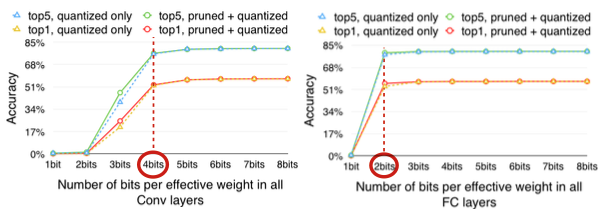
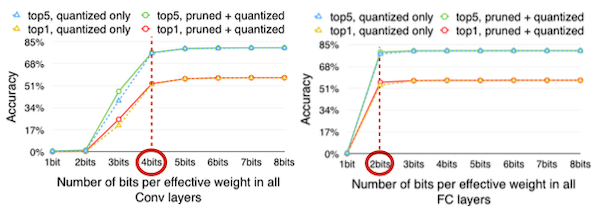
lec05 commit 4

diff --git a/lec05/README.md b/lec05/README.md
@@ -166,7 +166,7 @@ continuous 혹은 large set of values 특성을 가진 연속적인 입력을 di
 
 - silicon area
 
-neural network에 quantization을 적용하기 전/후의 weight 분포 차이를 살펴보자.
+neural network에 quantization을 적용하기 전/후의 weight 분포 차이를 살펴보자. continuous space가 discrete space로 매핑된다.
 
 ![continuous weight](images/continuous-weight.png)
 
@@ -190,9 +190,9 @@ W = \begin{bmatrix} 0.97 & 0.64 & 0.74 & 1.00 \\ 0.58 & 0.84 & 0.84 & 0.81 \\ 0.
 
 $$ A_{i} = \sum_{j}{C_{i,j}} + b_i $$
 
-1. $C_{i,j}$ 자리에 먼저 행렬 $W$ 값이 load된다.
-
 $$ A_{i} = W_i \cdot \mathrm{x_1} + W_i \cdot \mathrm{x_2} + W_i \cdot \mathrm{x_3} + W_i \cdot \mathrm{x_4} $$
+
+1. $C_{i,j}$ 자리에 먼저 행렬 $W$ 값을 load한다.
 
 2. 한 사이클마다 행렬 $X$ 에서 다음 input value를 가져온다.
 
@@ -200,39 +200,37 @@ $$ A_{i} = W_i \cdot \mathrm{x_1} + W_i \cdot \mathrm{x_2} + W_i \cdot \mathrm{x
 \begin{bmatrix} 0.41 \\ 0.00 \\ 0.42 \\ 0.39 \end{bmatrix}
 ```
 
-3. 연산이 끝나면 행렬 $X$ 의 다음 열을 가져와서 순차적으로 계산한다.
+3. 연산 후 행렬 $X$ 의 다음 열을 가져와서 순차적으로 계산한다.
 
 그런데 이 과정에 **weight, bias quantization**을 추가하면 어떻게 될까?
 
-- 우선 floating-point tensor를 **scaling factor** $s_{X}$ 가 곱해진 형태의 integer tensor 로 변환한다.
+1. floating-point tensor 대신 **scaling factor** $s_{X}$ 가 곱해진 형태의 integer tensor 를 사용한다.
 
 ```math
 X_{fp32} \approx s_{X}X_{int} = \hat{X}
 ```
 
+```math
+\hat{X} = {{1} \over {255}} \begin{bmatrix} 105 & 64 & 186 & 168 \\ 0 & 105 & 105 & 145 \\ 107 & 61 & 181 & 255 \\ 99 & 209 & 43 & 89 \end{bmatrix}
+```
+
 - $\hat{X}$ : scaled quantized tensor
+
+- **최소값 0→0**, **최대값 1.00→255**, `uint8` 타입으로 매핑되었다.
+
+2. weight tensor도 scaling factor $s_{W}$ 를 곱한 integer tensor를 사용한다.
 
 ```math
 W = \begin{bmatrix} 0.97 & 0.64 & 0.74 & 1.00 \\ 0.58 & 0.84 & 0.84 & 0.81 \\ 0.00 & 0.18 & 0.90 & 0.28 \\ 0.57 & 0.96 & 0.80 & 0.81 \end{bmatrix} \approx {{1} \over {255}}\begin{bmatrix} 247 & 163 & 189 & 255 \\ 148 & 214 & 214 & 207 \\ 0 & 46 & 229 & 71 \\ 145 & 245 & 204 & 207 \end{bmatrix} = s_{W}W_{uint8}
 ```
 
-- **최소값 0→0**, **최대값 1.00→255**, `uint8` 타입으로 매핑되었다.
-
-나머지 행렬도 변환하면 다음과 같다.
-
-```math
-\hat{X} = {{1} \over {255}} \begin{bmatrix} 105 & 64 & 186 & 168 \\ 0 & 105 & 105 & 145 \\ 107 & 61 & 181 & 255 \\ 99 & 209 & 43 & 89 \end{bmatrix}
-```
-
-- **최소값 0→0**, **최대값 1.00→255**, `uint8` 타입으로 매핑되었다.
+3. bias tensor는 `int32` 타입으로 매핑된다.
 
 ```math
 \hat{b} = {{1} \over {255^2}}\begin{bmatrix} 650 \\ 1300 \\ 1951 \\ 650 \end{bmatrix} 
 ```
 
-- `int32` 타입으로 매핑되었다.
-
-  **overflow**를 피하기 위해서는 이처럼 <U>더 큰 bit width를 사용</U>해야 한다.
+-  **overflow**를 피하기 위해서는 이처럼 <U>더 큰 bit width를 사용</U>해야 한다.
 
 - $\hat{W}, \hat{X}$ 가 가지고 있는 ${{1} \over {255}}$ 가 서로 곱해지면 ${{1} \over {255^2}}$ 가 되므로, quantized bias $\hat{b}$ 는 scaling factor로 ${{1} \over {255^2}}$ 를 사용한다.
 
@@ -250,7 +248,7 @@ W = \begin{bmatrix} 0.97 & 0.64 & 0.74 & 1.00 \\ 0.58 & 0.84 & 0.84 & 0.81 \\ 0.
 
 ---
 
-## 5.2.2 Symmetric vs Asymmetric Quantization
+### 5.2.2 Symmetric vs Asymmetric Quantization
 
 ![symmetric, asymmetric, unsigned quantization](images/symmetric_asymmetric_signed.png)
 
@@ -272,15 +270,41 @@ W = \begin{bmatrix} 0.97 & 0.64 & 0.74 & 1.00 \\ 0.58 & 0.84 & 0.84 & 0.81 \\ 0.
 
 ---
 
+### 5.2.3 Uniform vs Non-uniform Quantization
+
+quantization의 step size를 uniform(균일)하게 정하거나, non-uniform하게 정하는가에 따라서도 표현력이 달라진다.
+
+![uniform vs non uniform](images/uniform_vs_non_uniform.png)
+
+- **uniform quantization**: (a)
+
+    - 표현력은 non-uniform보다 떨어지지만 구현이 더 쉽다.
+
+- **non-uniform quantization**: (b)
+
+    - 분포에 따라 step size가 결정된다. 
+    
+    - 예시) **logarithmic quantization**: (c) 
+    
+      same storage에서 더 넓은 범위의 값의 표현이 가능하다.
+
+$$ Q(x) = Sign(x)2^{round(\log_{2}|x|)} $$
+
+---
+
 ## 5.3 Efficient Weights Quantization
 
-그렇다면 quantization bits는 어느 정도가 효율적일까? 아래는 CNN에서 다양한 precision으로 quantization했을 때 정확도를 나타낸 도표다.
+그렇다면 quantization bits는 어느 정도가 효율적일까? CNN의 main operation에 해당되는 convolution(MAC), Fully-Connected(FC) layer를 quantization했을 때 정확도를 나타낸 도표를 살펴보자.
 
 ![quantization bits](images/quantization_bits.png)
 
 - Conv layer: 4bits 이상
 
 - FC layer: 2bits 이상
+
+참고로 대표적인 CNN 모델에서 Conv, FC layer이 갖는 비중은 다음과 같다.
+
+![CNN models Conv, FC layers](images/conv_fc_cnn.png)
 
 ---
 
@@ -356,7 +380,11 @@ ImageNet dataset으로 훈련한 AlexNet에서 pruning+quantization, pruning, qu
 
 ### 5.4.1 K-Means-based Quantization
 
+> [Deep Compression: Compressing Deep Neural Networks with Pruning, Trained Quantization and Huffman Coding 논문(2015)](https://arxiv.org/abs/1510.00149)
+
 **K-Means-based weight quantization**이란 여러 <U>bucket을 갖는 codebook</U>(**centroids**, 무게중심)을 만들어서 quantization하는 방식이다.
+
+> clustering 기법 자체를 non-uniform quantization의 일종으로 볼 수 있다.(quantization level 수 = cluster 수)
 
 > 예를 들어 Computer Graphics에서는, 65536개의 스펙트럼으로 이루어진 원래 색상을 256개의 bucket을 갖는 codebook을 만들어서 quantization을 수행한다.
 
@@ -366,7 +394,7 @@ ImageNet dataset으로 훈련한 AlexNet에서 pruning+quantization, pruning, qu
 
 - 연산: Floating-Point Arithmetic
 
-> 예제에서 codebook의 cluster index는 0~3까지의 2bit로 표현된다.
+> 예제에서 codebook의 cluster index는 0~3까지 있으므로 2bit로 표현된다.
 
 ### <span style='background-color: #393E46; color: #F7F7F7'>&nbsp;&nbsp;&nbsp;📝 예제 2: K-Means-based Quantization의 메모리 사용량 &nbsp;&nbsp;&nbsp;</span>
 
@@ -414,11 +442,23 @@ K-Means-based Quantization 이전/이후 필요한 memory를 계산하라.
 
 ![Fine-tuning quantized weights(K-means)](images/K-means_fine_tune.png)
 
-그러나 K-Means-based weight quantization은, weight만 integer type으로 바꾼 뒤, 실제 추론 상황에서는 다시 floating-point로 바꾸어야 한다는 단점이 있다.
+---
 
-> runtime inference 중 weight는 lookup table에 따라서 decompressed된다.(예제: 2bit int to 32bit float)
+#### 5.4.1.2 K-Means-based Quantization Limitations
 
-따라서 <U>오직 storage cost만 줄일 수 있다</U>는 한계를 지닌다. 실제 computation 과정, memory access에서는 여전히 floating-point를 사용한다.
+그러나 K-Means-based weight quantization은 다음과 같은 단점을 갖는다.
+
+1. 실제 추론 상황에서는 다시 floating point를 사용한다.
+
+   다시 말해 runtime inference에서 weight는 lookup table을 바탕으로 decompressed된다.(예시에서는 2bit integer가 다시 32bit floating point로 decompressed됐다.)
+
+    - 따라서 <U>오직 storage cost만 줄일 수 있다</U>는 한계를 지닌다.
+
+2. codebook을 reconstruction하기 위한 time complexity, computation이 크다.
+
+3. cluster에 있는 weight가 memory상에서 연속적이지 않기 떄문에, memory access에서 긴 지연이 발생하게 된다.
+
+4. activation은 입력에 따라 다양하게 변하기 때문에, actiavation quantization에 clustering-based approach는 적합하지 않다.
 
 ---
 
